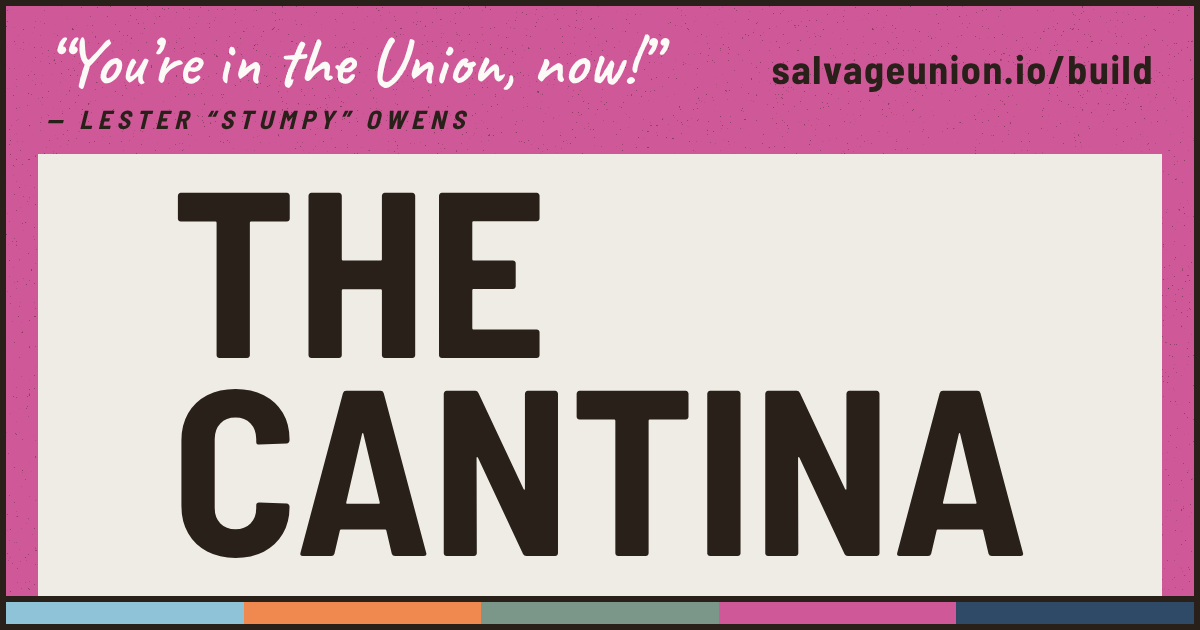
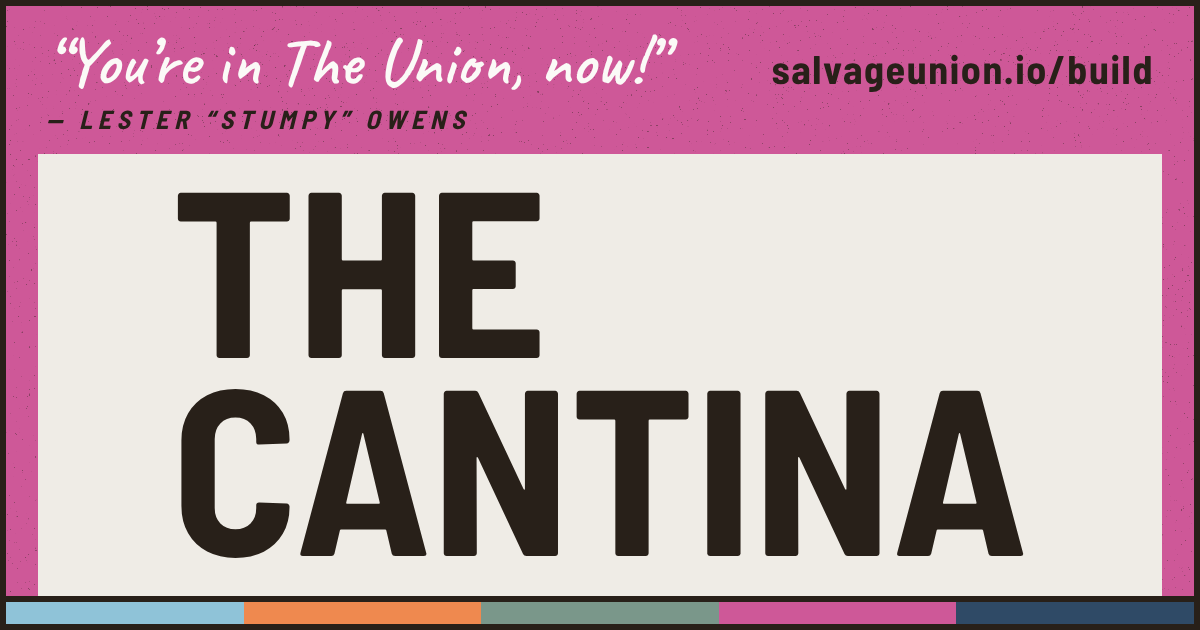
fix(itun): Stumpy says The Union with a capital T (#1499)
<!-- claude-projects-attribution: {"github_login":"alxjrvs"} -->
_Requested by **Jrvs** · [project
thread](https://claude.ai/code/project/chan_01PNyZHxYMd9VnvrvcoMY3FL?thread=cmsg_01PNyZHxYMd9VnvrvcoMY3FL1tbyoFihC59c1giaEzxSA8)_

## Summary

The Cantina's legacy tagline now reads "You're in The Union, now!" with
a capital T. This applies on the front door and in the link preview.

## Why

The owner asked for this in the project thread, following #1490 and
#1496.

## What changed

- Changed `PRODUCT.tagline` in `packages/component-lib/src/product.ts`.
The front door reads it from there.
- Re-shot ITUN's `og-image.png`.

## Verification

- `bun run check:fast` passed 17/17.
- Tests passed in component-lib (1062) and itun (2716).
- Checked the re-shot preview image by eye.

🤖 Generated with [Claude Code](https://claude.com/claude-code)

https://claude.ai/code/session_01BUxziBVfbwz5asVnb5apaQ

---
_Generated by [Claude
Code](https://claude.ai/code/session_01BUxziBVfbwz5asVnb5apaQ)_

Changed region(s): [[0.2158, 0.0603, 0.5858, 0.1508]]

diff --git a/packages/component-lib/src/product.ts b/packages/component-lib/src/product.ts
@@ -20,7 +20,7 @@ export const PRODUCT = {
   name: 'The Cantina',
   shortName: 'Cantina',
   descriptor: 'The Salvage Union Character Builder',
-  tagline: 'You’re in the Union, now!',
+  tagline: 'You’re in The Union, now!',
   taglineBy: 'Lester “Stumpy” Owens',
   wordmark: 'salvageunion.io',
 } as const
